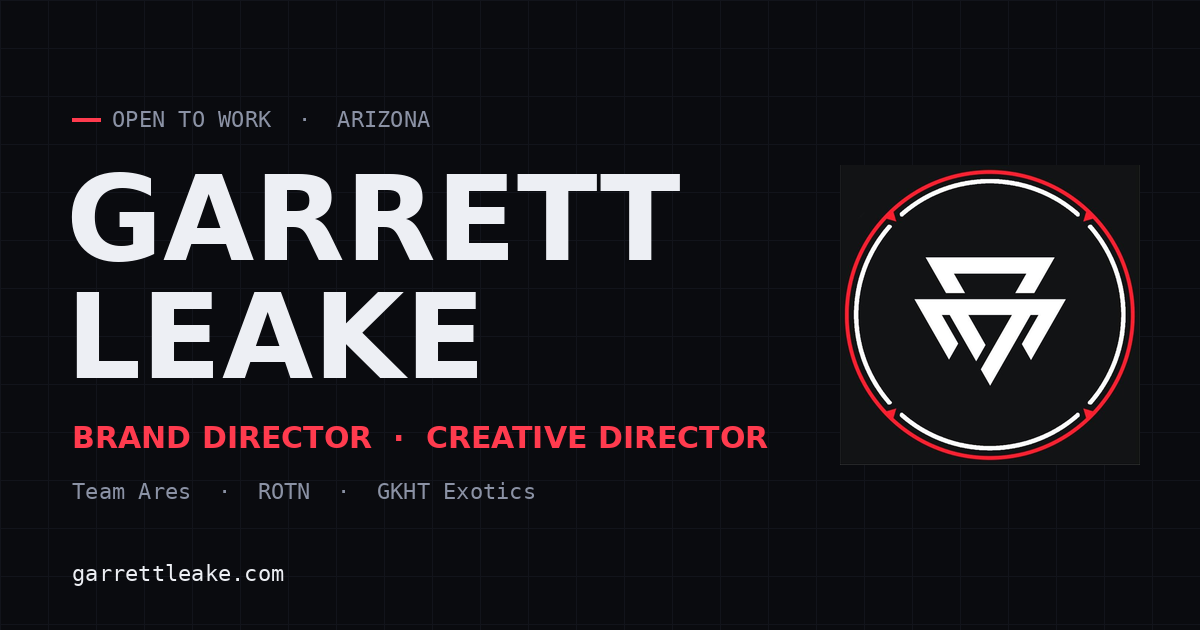
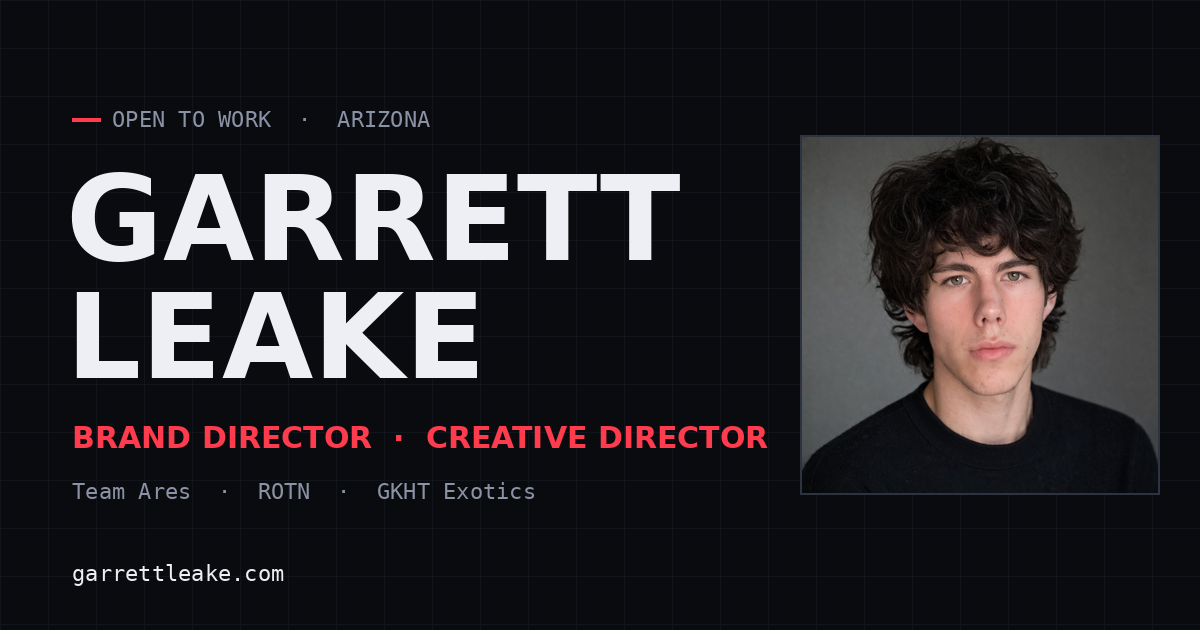
Add headshot: About page, Person schema, link-preview card

Changed region(s): [[0.6475, 0.2111, 0.9867, 0.754]]

diff --git a/about/index.html b/about/index.html
@@ -32,7 +32,7 @@
   <link rel="preconnect" href="https://fonts.gstatic.com" crossorigin>
   <link rel="stylesheet" href="https://fonts.googleapis.com/css2?family=Chakra+Petch:wght@500;600;700&family=Manrope:wght@400;500;600;700&family=JetBrains+Mono:wght@400;500&display=swap">
   <link rel="stylesheet" href="../styles.css">
-  <script type="application/ld+json">{"@context": "https://schema.org", "@type": "Person", "@id": "https://garrettleake.com/#person", "name": "Garrett Leake", "url": "https://garrettleake.com/", "image": "https://garrettleake.com/og-image.png", "jobTitle": "Brand & Creative Director", "description": "Garrett Leake is a brand and creative director from Arizona — former owner and CEO of Team Ares, founder of ROTN and GKHT Exotics. Open to work.", "worksFor": {"@type": "Organization", "name": "GKHT Exotics", "url": "https://gkhtexotics.com/"}, "alumniOf": {"@type": "Organization", "name": "Team Ares LLC"}, "address": {"@type": "PostalAddress", "addressRegion": "AZ", "addressCountry": "US"}, "email": "mailto:support@wolfpog.com", "knowsAbout": ["brand direction", "creative direction", "sponsorship management", "influencer marketing", "esports", "merchandise", "apparel", "creator networks", "Team Ares", "ROTN", "GKHT Exotics"], "sameAs": ["https://www.instagram.com/gkht/", "https://x.com/aresgarrett", "https://gkhtexotics.com/"]}</script>
+  <script type="application/ld+json">{"@context": "https://schema.org", "@type": "Person", "@id": "https://garrettleake.com/#person", "name": "Garrett Leake", "url": "https://garrettleake.com/", "image": "https://garrettleake.com/img/garrett-leake.jpg", "jobTitle": "Brand & Creative Director", "description": "Garrett Leake is a brand and creative director from Arizona — former owner and CEO of Team Ares, founder of ROTN and GKHT Exotics. Open to work.", "worksFor": {"@type": "Organization", "name": "GKHT Exotics", "url": "https://gkhtexotics.com/"}, "alumniOf": {"@type": "Organization", "name": "Team Ares LLC"}, "address": {"@type": "PostalAddress", "addressRegion": "AZ", "addressCountry": "US"}, "email": "mailto:support@wolfpog.com", "knowsAbout": ["brand direction", "creative direction", "sponsorship management", "influencer marketing", "esports", "merchandise", "apparel", "creator networks", "Team Ares", "ROTN", "GKHT Exotics"], "sameAs": ["https://www.instagram.com/gkht/", "https://x.com/aresgarrett", "https://gkhtexotics.com/"]}</script>
   <script type="application/ld+json">{"@context": "https://schema.org", "@type": "FAQPage", "mainEntity": [{"@type": "Question", "name": "Who is Garrett Leake?", "acceptedAnswer": {"@type": "Answer", "text": "Garrett Leake is a brand and creative director based in Arizona. He was an owner and the CEO of Team Ares, an esports and creator organization, from 2020 to 2023; founded the apparel brand ROTN (Rich Off The Net) in 2023; and founded GKHT Exotics, an exotic car rental company operating in Los Angeles and Phoenix / Scottsdale."}}, {"@type": "Question", "name": "What does Garrett Leake do?", "acceptedAnswer": {"@type": "Answer", "text": "Brand direction, creative direction and sponsorship strategy. At Team Ares he sold and managed brand partnerships (SCUF Gaming, Epic Games, Samsung, AXE, ExitLag, NXT LVL), directed the brand and every merch drop, and ran events. Today he runs GKHT Exotics and is open to brand director, creative director and partnerships roles."}}, {"@type": "Question", "name": "Where is Garrett Leake based?", "acceptedAnswer": {"@type": "Answer", "text": "Arizona — the Phoenix / Scottsdale area. He works with brands and creators remotely and in Los Angeles."}}]}</script>
   <script type="application/ld+json">{"@context": "https://schema.org", "@type": "BreadcrumbList", "itemListElement": [{"@type": "ListItem", "position": 1, "name": "Home", "item": "https://garrettleake.com/"}, {"@type": "ListItem", "position": 2, "name": "About", "item": "https://garrettleake.com/about/"}]}</script>
   </head>
@@ -64,7 +64,7 @@
 <div class="dossier">
   <aside class="rail">
     <figure class="portrait" id="portrait">
-      <img src="../og-image.png" alt="Garrett Leake" width="1200" height="630" loading="lazy">
+      <img src="../img/garrett-leake.jpg" alt="Garrett Leake — headshot" width="1200" height="1200" loading="lazy">
     </figure>
     <dl>
       <div><dt>Name</dt><dd>Garrett Leake</dd></div>

diff --git a/index.html b/index.html
@@ -32,7 +32,7 @@
   <link rel="preconnect" href="https://fonts.gstatic.com" crossorigin>
   <link rel="stylesheet" href="https://fonts.googleapis.com/css2?family=Chakra+Petch:wght@500;600;700&family=Manrope:wght@400;500;600;700&family=JetBrains+Mono:wght@400;500&display=swap">
   <link rel="stylesheet" href="./styles.css">
-  <script type="application/ld+json">{"@context": "https://schema.org", "@type": "Person", "@id": "https://garrettleake.com/#person", "name": "Garrett Leake", "url": "https://garrettleake.com/", "image": "https://garrettleake.com/og-image.png", "jobTitle": "Brand & Creative Director", "description": "Garrett Leake is a brand and creative director from Arizona — former owner and CEO of Team Ares, founder of ROTN and GKHT Exotics. Open to work.", "worksFor": {"@type": "Organization", "name": "GKHT Exotics", "url": "https://gkhtexotics.com/"}, "alumniOf": {"@type": "Organization", "name": "Team Ares LLC"}, "address": {"@type": "PostalAddress", "addressRegion": "AZ", "addressCountry": "US"}, "email": "mailto:support@wolfpog.com", "knowsAbout": ["brand direction", "creative direction", "sponsorship management", "influencer marketing", "esports", "merchandise", "apparel", "creator networks", "Team Ares", "ROTN", "GKHT Exotics"], "sameAs": ["https://www.instagram.com/gkht/", "https://x.com/aresgarrett", "https://gkhtexotics.com/"]}</script>
+  <script type="application/ld+json">{"@context": "https://schema.org", "@type": "Person", "@id": "https://garrettleake.com/#person", "name": "Garrett Leake", "url": "https://garrettleake.com/", "image": "https://garrettleake.com/img/garrett-leake.jpg", "jobTitle": "Brand & Creative Director", "description": "Garrett Leake is a brand and creative director from Arizona — former owner and CEO of Team Ares, founder of ROTN and GKHT Exotics. Open to work.", "worksFor": {"@type": "Organization", "name": "GKHT Exotics", "url": "https://gkhtexotics.com/"}, "alumniOf": {"@type": "Organization", "name": "Team Ares LLC"}, "address": {"@type": "PostalAddress", "addressRegion": "AZ", "addressCountry": "US"}, "email": "mailto:support@wolfpog.com", "knowsAbout": ["brand direction", "creative direction", "sponsorship management", "influencer marketing", "esports", "merchandise", "apparel", "creator networks", "Team Ares", "ROTN", "GKHT Exotics"], "sameAs": ["https://www.instagram.com/gkht/", "https://x.com/aresgarrett", "https://gkhtexotics.com/"]}</script>
   <script type="application/ld+json">{"@context": "https://schema.org", "@type": "WebSite", "@id": "https://garrettleake.com/#website", "url": "https://garrettleake.com/", "name": "Garrett Leake", "publisher": {"@id": "https://garrettleake.com/#person"}}</script>
   <script type="application/ld+json">{"@context": "https://schema.org", "@type": "BreadcrumbList", "itemListElement": [{"@type": "ListItem", "position": 1, "name": "Home", "item": "https://garrettleake.com/"}]}</script>
   </head>

diff --git a/work/index.html b/work/index.html
@@ -74,7 +74,7 @@
     <div class="card-body"><p class="eyebrow">2023 · Founder</p><h2>ROTN — Rich Off The Net</h2><p>An apparel brand from zero. One drop modeled by Rich Amiri, 300+ units in a month, sold out.</p><span class="xlink">Read the case study →</span></div>
   </a>
   <a class="card" href="gkht-exotics/">
-    <img src="../og-image.png" alt="Garrett Leake" width="1200" height="630" loading="lazy">
+    <img src="../img/garrett-leake.jpg" alt="Garrett Leake — headshot" width="1200" height="1200" loading="lazy">
     <div class="card-body"><p class="eyebrow">Now · Founder</p><h2>GKHT Exotics</h2><p>Exotic car rentals delivered to the client — 45+ vehicles brokered across LA and Phoenix / Scottsdale, and a 65-page site built for search.</p><span class="xlink">Read the case study →</span></div>
   </a>
 </div>
